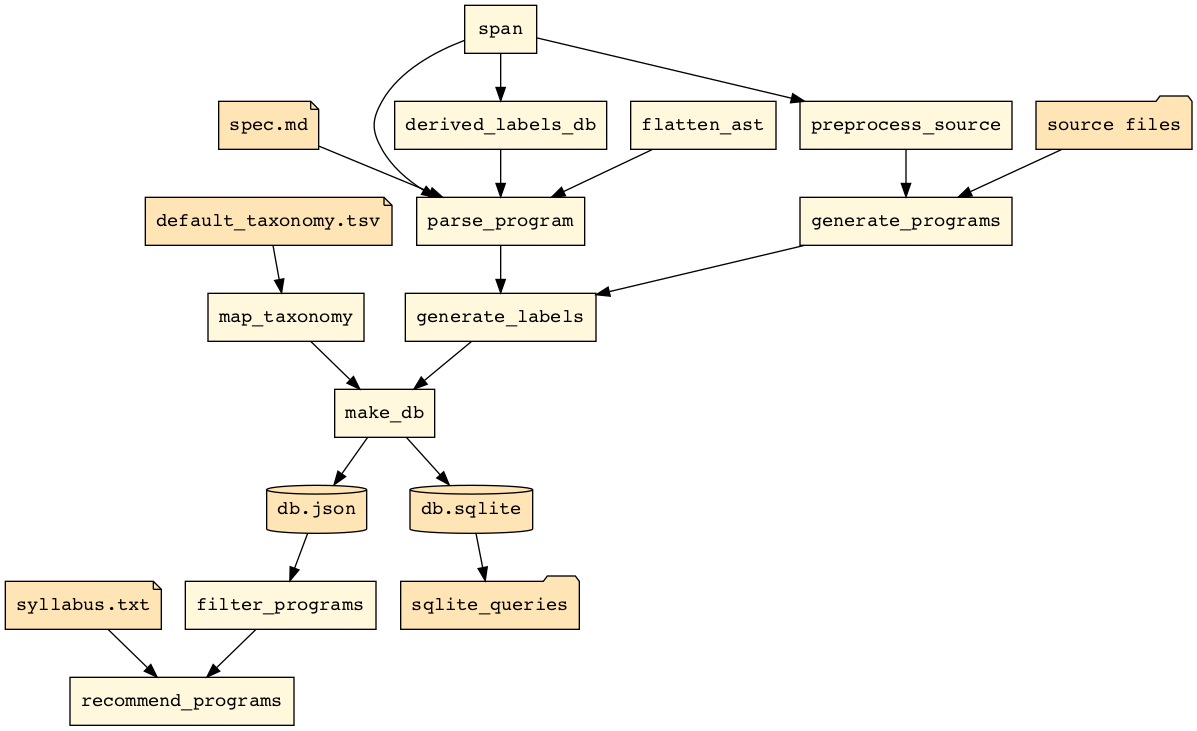
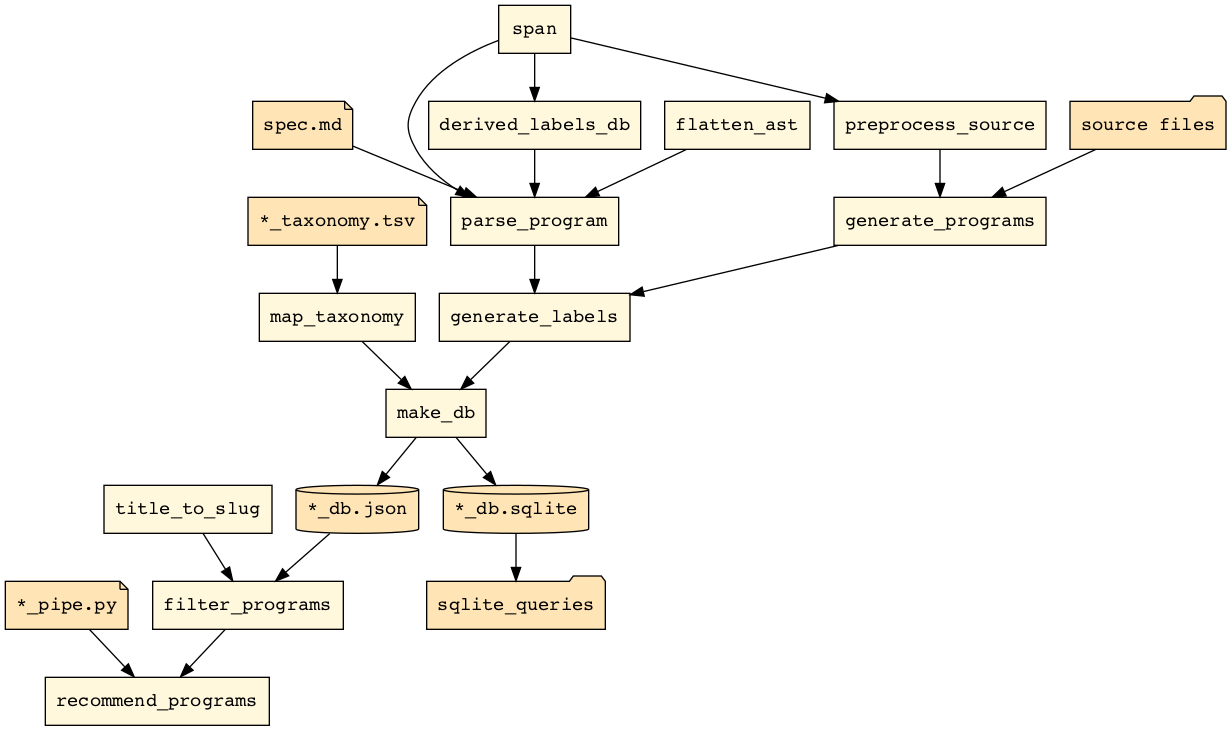
update flow drawing

diff --git a/helpers/draw_flow.py b/helpers/draw_flow.py
@@ -13,21 +13,21 @@ Path(f"{base}.dot").write_text(
     "digraph G {\nnode [shape=box fontname=Courier style=filled fillcolor=cornsilk]\n%s\n}\n"
     % "\n".join(
         [
-            '"db.json" [shape=cylinder fillcolor=moccasin]',
-            '"db.sqlite" [shape=cylinder fillcolor=moccasin]',
+            '"*_db.json" [shape=cylinder fillcolor=moccasin]',
+            '"*_db.sqlite" [shape=cylinder fillcolor=moccasin]',
             '"spec.md" [shape=note fillcolor=moccasin]',
-            '"default_taxonomy.tsv" [shape=note fillcolor=moccasin]',
+            '"*_taxonomy.tsv" [shape=note fillcolor=moccasin]',
             '"source files" [shape=folder fillcolor=moccasin]',
             '"sqlite_queries" [shape=folder fillcolor=moccasin]',
-            '"syllabus.txt" [shape=note fillcolor=moccasin]',
-            'make_db -> "db.json"',
-            'make_db -> "db.sqlite"',
-            '"db.sqlite" -> sqlite_queries',
-            '"db.json" -> filter_programs',
+            '"*_pipe.py" [shape=note fillcolor=moccasin]',
+            'make_db -> "*_db.json"',
+            'make_db -> "*_db.sqlite"',
+            '"*_db.sqlite" -> sqlite_queries',
+            '"*_db.json" -> filter_programs',
             '"spec.md" -> parse_program',
             '"source files" -> generate_programs',
-            '"default_taxonomy.tsv" -> map_taxonomy',
-            '"syllabus.txt" -> recommend_programs',
+            '"*_taxonomy.tsv" -> map_taxonomy',
+            '"*_pipe.py" -> recommend_programs',
         ]
         + [
             f"{imported_name} -> {name}"
